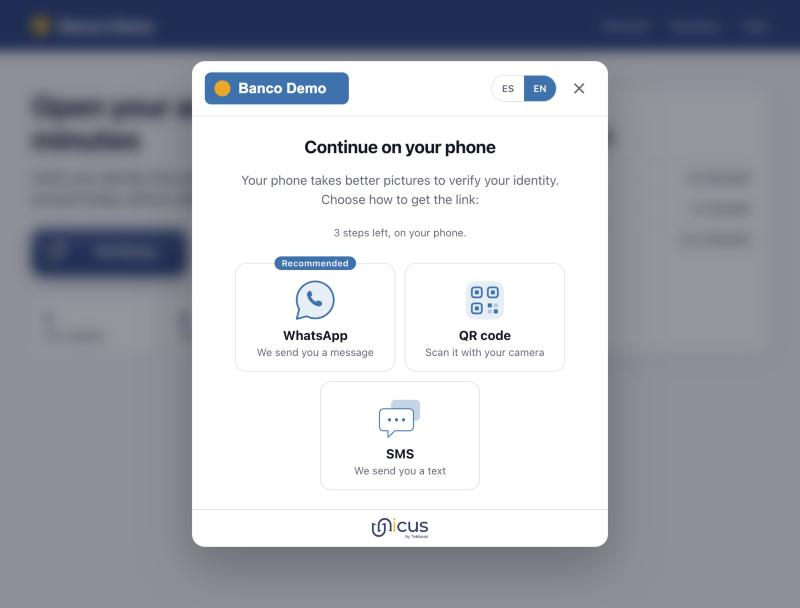
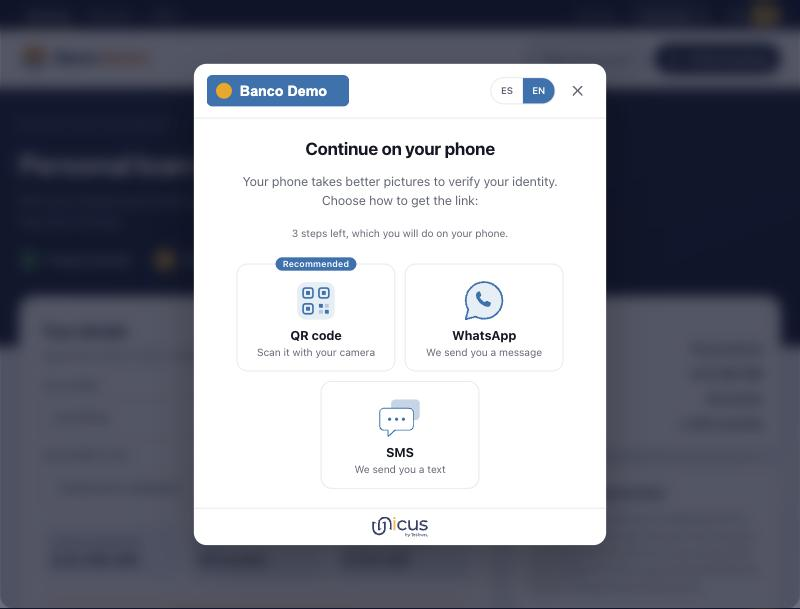
Web SDK 5: the QR code comes first and is recommended in the hand-off options
New screenshots (es/en) over the Banco Aurora demo.

diff --git a/unicus-es/sdk-web-v5/flows-and-handoff.md b/unicus-es/sdk-web-v5/flows-and-handoff.md
@@ -117,8 +117,8 @@ mensajes pueden recibir una transacción y un número de celular, y lo indica en
 la pantalla cuando se alcanza el límite (el usuario aún puede usar el código QR).
 
 La pantalla le explica al usuario por qué el celular (su cámara toma mejores
-fotos) y cuántos pasos le faltan ahí. Cuando tu empresa tiene WhatsApp, aparece
-primero y marcado como recomendado. Si después de un minuto y medio en la
+fotos) y cuántos pasos le faltan ahí. El código QR aparece primero y marcado
+como recomendado; WhatsApp y SMS, si tu empresa los tiene, van después. Si después de un minuto y medio en la
 pantalla del QR o del mensaje el celular no ha empezado, una sugerencia le indica
 qué intentar (acercar el celular, enviar el mensaje de nuevo o usar otro canal).
 

diff --git a/unicus/sdk-web-v5/flows-and-handoff.md b/unicus/sdk-web-v5/flows-and-handoff.md
@@ -109,8 +109,8 @@ one transaction and one phone number can receive, and says so on the screen
 when the limit is reached (the user can still use the QR code).
 
 The screen tells the user why the phone (its camera takes better pictures) and
-how many steps are left there. When your company has WhatsApp, it comes first
-and is marked as recommended. If the phone has not started after a minute and a
+how many steps are left there. The QR code comes first and is marked as
+recommended; WhatsApp and SMS, when your company has them, follow. If the phone has not started after a minute and a
 half on the QR or message screen, a hint suggests what to try (move the phone
 closer, send the message again, or use another channel).
 
